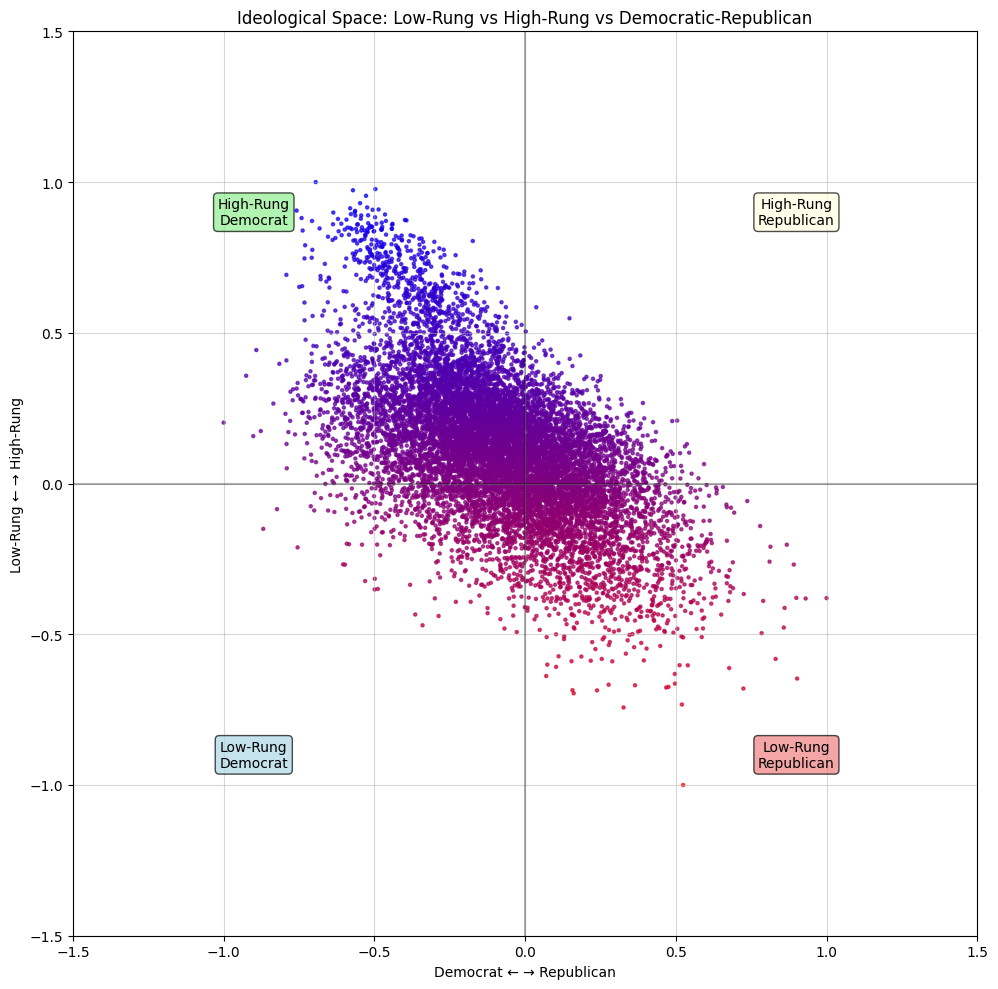
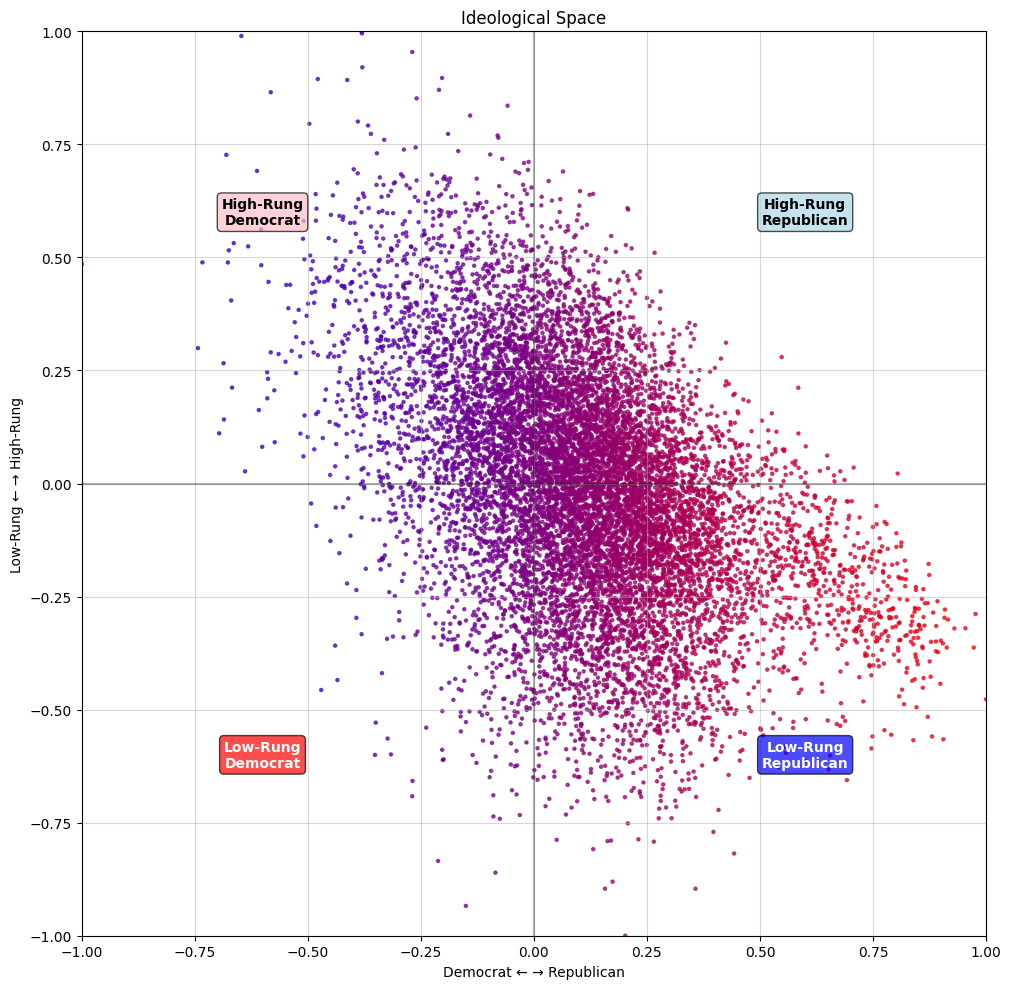
replaced outdated plot

diff --git a/main.py b/main.py
@@ -414,3 +414,5 @@ for i, dragon in enumerate(dragons[::-1]):
 
 plt.tight_layout()
 plt.show()
+
+# %%
